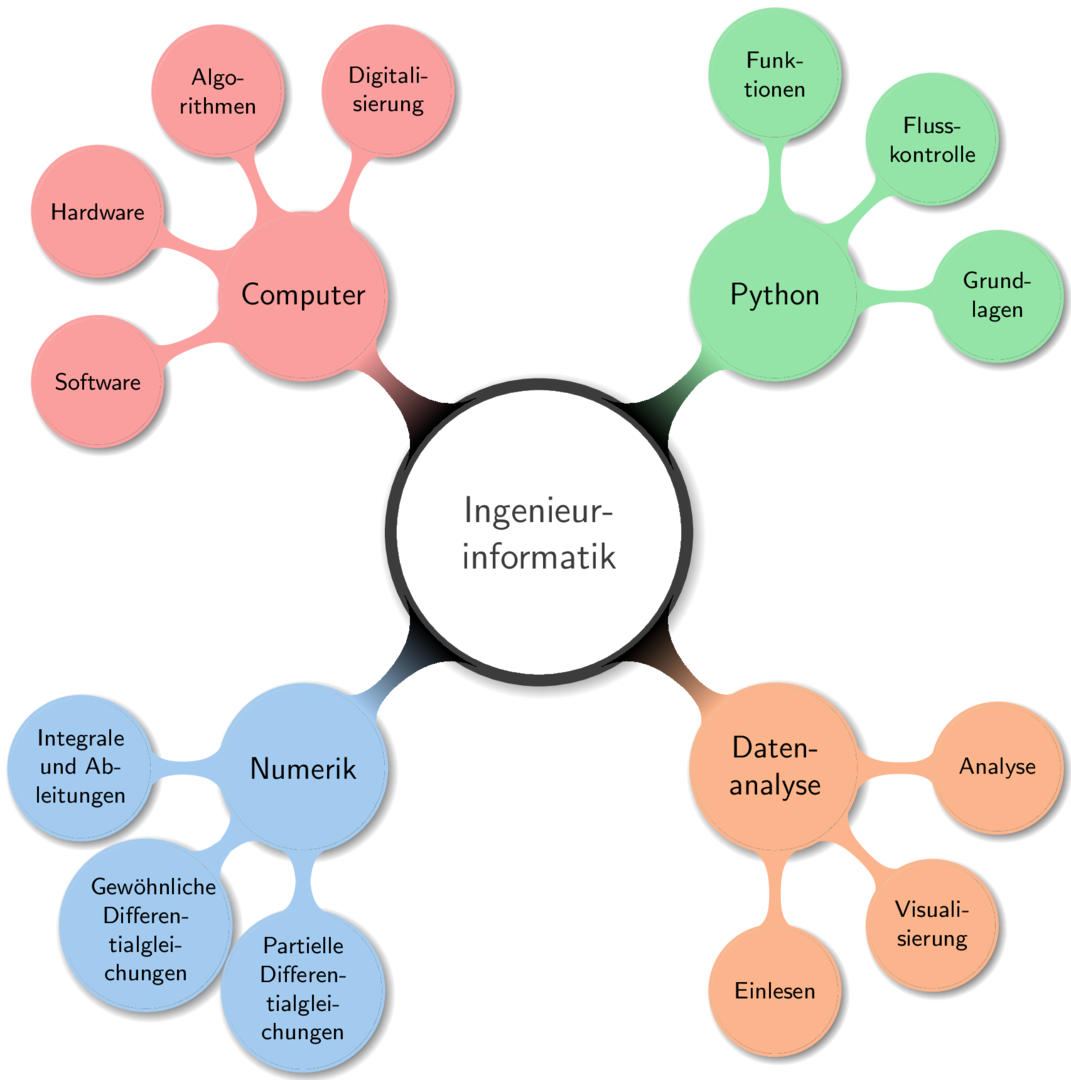
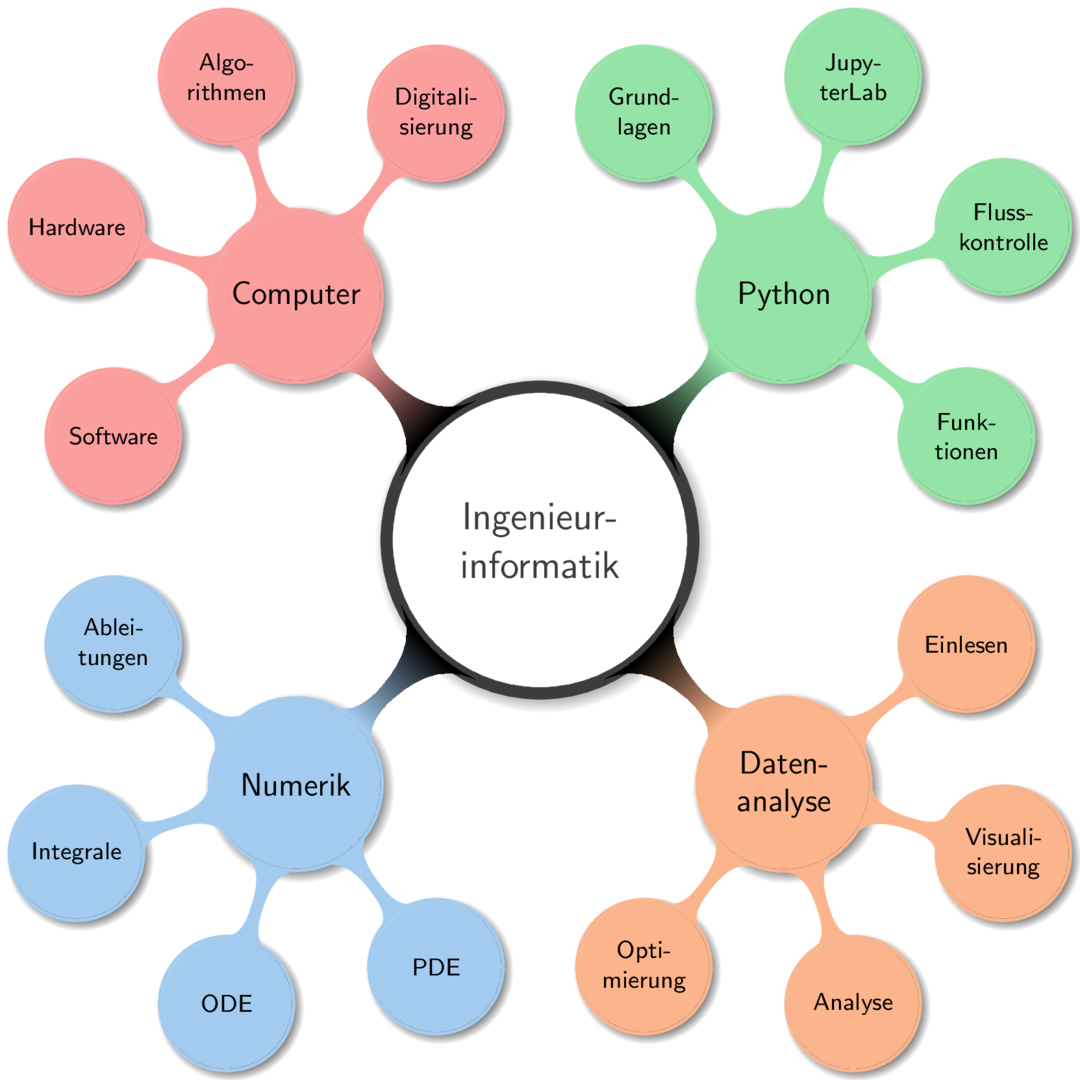
update home

diff --git a/Content/Overview/02_einfuehrung/bilder/uebersicht_themen.tex b/Content/Overview/02_einfuehrung/bilder/uebersicht_themen.tex
@@ -41,22 +41,25 @@
   					  level 1/.append style={level distance=4.5cm, fill=white, 
   					  					     sibling angle=90, font=\large\sf},
   					  level 2/.append style={level distance=3cm, fill=my_blue_light, 
-  					  					     sibling angle=45,font=\small\sf}] 
+  					  					     sibling angle=55,font=\small\sf}] 
 \node [root concept] {Ingenieurinformatik} % root
 	  child [T1] { node {Numerik} 
-	  	child { node {Integrale und Ableitungen} } 
-	  	child { node {Gewöhnliche Differentialgleichungen} } 
-	  	child { node {Partielle Differentialgleichungen} } 
+	  	child { node {Ableitungen} } 
+	  	child { node {Integrale} } 
+	  	child { node {ODE} } 
+	  	child { node {PDE} } 
 	  }
 	  child [T2] { node {Datenanalyse} 
-	  	child { node {Einlesen} } 
+	  	child { node {Optimierung} } 
+	  	child { node {Analyse} } 
 	  	child { node {Visualisierung} } 
-	  	child { node {Analyse} }
+	  	child { node {Einlesen} }
 	  }
 	  child [T3] { node {Python} 
-	  	child { node {Grundlagen} } 
-	  	child { node {Flusskontrolle} } 
-	  	child { node {Funktionen} } 	  	
+	  	child { node {Funktionen} } 
+	  	child { node {Flusskontrolle} }
+	  	child { node {JupyterLab} } 
+	  	child { node {Grundlagen} } 	  	
 	  }
       child [T4] { node {Computer}
         child { node {Digitalisierung} }

diff --git a/Content/home.md b/Content/home.md
@@ -14,10 +14,12 @@ Da sich das Skript in der Entwicklung befinden freuen wir uns über konstruktive
 
 **Alle organisatorischen Informationen zum Ablauf finden Sie auf der [CCE-Webseite zur Ingenieurinformatik](https://cce.uni-wuppertal.de/index.php?id=4178&L=0).** 
 
-## Inhaltsübersicht
+## Inhalte des Skripts
 
 * Geplant ist, dass dieses Skript nicht nur die Vorlesung *Ingenieurinformatik* sondern auch andere mit dieser Vorlesung verknüpfte Inhalte, wie z.B. *Datenanalyse mit Python*, enthält. Im Laufe der Vorlesung werden wir die für Sie relevanten Inhalte entsprechend bekannt geben. Im Sommersemester 2020 werden voraussichtlich aber noch keine weiteren Inhalte eingebunden sein.
 * Das Skript enthält auch Übungsaufgaben für alle Kapitel, mit und ohne Lösungswege, aber immer mit einem Ergebnis bzw. der Möglichkeit der Validierung Ihrer Lösung.
+* Drucken Sie das Skript nicht aus, oder speichern Sie es nicht anderwaltig. So haben Sie die aktuellste Version, welche kontinuierlich verbessert und mit Inhalten ergänzt wird. 
+* Das Skript wird immer frei zugänglich bleiben.
 
 ## Themenübersicht
 
